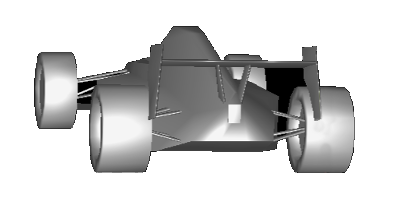
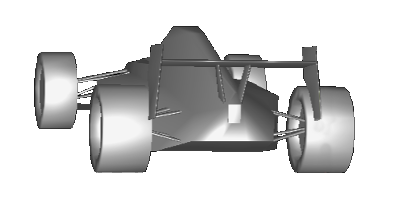
mor work on editor

Changed region(s): [[0.66, 0.33, 0.78, 0.69], [0.18, 0.39, 0.24, 0.54]]

diff --git a/autosportlabs/racecapture/views/dashboard/widgets/imugauge.py b/autosportlabs/racecapture/views/dashboard/widgets/imugauge.py
@@ -23,50 +23,64 @@ kivy.require('1.9.1')
 from kivy.clock import Clock
 from kivy.app import Builder
 from kivy.metrics import dp
-from fieldlabel import FieldLabel
+from kivy.uix.behaviors import ToggleButtonBehavior
 from kivy.uix.image import Image
 from kivy.uix.boxlayout import BoxLayout
 from kivy.uix.modalview import ModalView
-from utils import kvFind, kvquery
-from kivy.properties import NumericProperty, ObjectProperty, StringProperty
+from kivy.properties import NumericProperty, ObjectProperty, StringProperty, ListProperty
 from kivy.uix.anchorlayout import AnchorLayout
+from utils import kvFind, kvquery
+from fieldlabel import FieldLabel
+from autosportlabs.racecapture.views.util.alertview import editor_popup
+from autosportlabs.racecapture.theme.color import ColorScheme
 from autosportlabs.uix.imu.imuview import ImuView
 from autosportlabs.racecapture.views.dashboard.widgets.gauge import Gauge
 from autosportlabs.uix.color.colorsequence import ColorSequence
 from kivy.uix.settings import SettingsWithNoMenu
 
-class ModelSelectorItemView(BoxLayout):
+class ModelSelectorItemView(ToggleButtonBehavior, BoxLayout):
     Builder.load_string("""
 <ModelSelectorItemView>:
     canvas.before:
         Color:
-            rgba: ColorScheme.get_widget_translucent_background()
+            rgba: root.selected_color
         Rectangle:
             pos: self.pos
             size: self.size
+    group: 'model'
     padding: (dp(5), dp(5))
     FieldLabel:
         text: root.label
+        halign: 'center'
     Image:
         source: root.image_source
     """)
 
     label = StringProperty()
     image_source = StringProperty()
+    selected_color = ListProperty(ColorScheme.get_dark_background())
 
-class ModelSelectorView(AnchorLayout):
+    def on_state(self, instance, value):
+        selected = value == 'down'
+        self.selected_color = ColorScheme.get_medium_background() if selected else ColorScheme.get_dark_background()
+        self.dispatch('on_selected', selected)
+
+    def __init__(self, **kwargs):
+        super(ModelSelectorItemView, self).__init__(**kwargs)
+        self.register_event_type('on_selected')
+        
+    def on_selected(self, state):
+        pass
+
+class ModelSelectorView(BoxLayout):
     Builder.load_string("""
 <ModelSelectorView>:
-    canvas.before:
-        Color:
-            rgba: ColorScheme.get_dark_background()
-        Rectangle:
-            pos: self.pos
-            size: self.size
-    
+    orientation: 'vertical'
+    spacing: dp(5)
+    padding: (dp(10), dp(10))
     ScrollContainer:
         id: scroll
-        size_hint_y: 1.0
+        size_hint_y: 0.6
         do_scroll_x:False
         do_scroll_y:True
         GridLayout:
@@ -76,7 +90,7 @@ class ModelSelectorView(AnchorLayout):
             row_default_height: root.height * 0.3
             size_hint_y: None
             height: self.minimum_height
-            cols: 1        
+            cols: 1
     """)
 
 
@@ -89,10 +103,14 @@ class ModelSelectorView(AnchorLayout):
         self._add_model('Formula Car', 'resource/models/car_formula_preview.png')
         self._add_model('Sports Car', 'resource/models/car_sports_preview.png')
         self._add_model('Kart', 'resource/models/kart_preview.png')
-
+        
     def _add_model(self, label, image_source):
-        self.ids.grid.add_widget(ModelSelectorItemView(label=label, image_source=image_source))
-
+        view = ModelSelectorItemView(label=label, image_source=image_source)
+        view.bind(on_selected=self.on_model_state)
+        self.ids.grid.add_widget(view)
+        
+    def on_model_state(self, instance, value):
+        print('state {}'.format(value))
 
 class ImuLabel(FieldLabel):
     Builder.load_string("""
@@ -179,7 +197,7 @@ class ImuGauge(Gauge):
     GYRO_YAW = "Yaw"
     GYRO_PITCH = "Pitch"
     GYRO_ROLL = "Roll"
-    _POPUP_SIZE_HINT = (0.75, 0.9)
+    _POPUP_SIZE_HINT = (0.6, 0.9)
 
     IMU_AMPLIFICATION = 2.0
 
@@ -191,15 +209,13 @@ class ImuGauge(Gauge):
         self._color_sequence = ColorSequence()
 
     def on_customize(self, *args):
+        def popup_dismissed(instance, result):
+            popup.dismiss()
+            
         view = ModelSelectorView()
-
-        def popup_dismissed(*args):
-           print('dismissed')
-
-        popup = ModalView(size_hint=ImuGauge._POPUP_SIZE_HINT)
-        popup.add_widget(view)
-        popup.bind(on_dismiss=popup_dismissed)
-        popup.open()
+        
+        popup = editor_popup('Select Model', view, popup_dismissed, size=(dp(700), dp(500)))
+                
 
     def on_zoom(self, instance, value):
         self.ids.imu.position_z /= value

diff --git a/autosportlabs/uix/imu/imuview.py b/autosportlabs/uix/imu/imuview.py
@@ -73,7 +73,7 @@ class ImuView(BoxLayout):
 
     def init_view(self):
         Window.bind(on_motion=self.on_motion)
-        self.model_path = 'resource/models/car-farara-sport-white.obj'
+        self.model_path = 'resource/models/car_sports_2.obj'
 
     def cleanup_view(self):
         Window.unbind(on_motion=self.on_motion)
